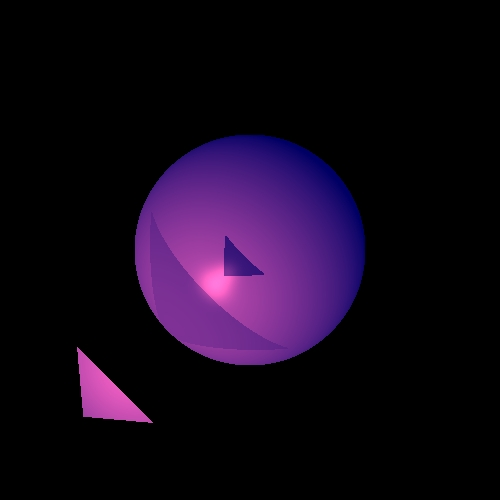
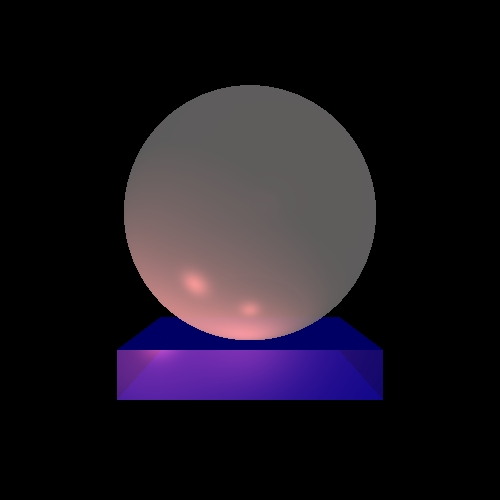
depth

Changed region(s): [[0.15, 0.15, 0.78, 0.87]]

diff --git a/tar1_primitives/src/unittests/RenderTest.java b/tar1_primitives/src/unittests/RenderTest.java
@@ -356,10 +356,10 @@ public class RenderTest extends TestCase {
 		scene.setCamera(new Camera(new Point3D(0, 0, 0), new Vector(0, 1, 0), new Vector(0, 0, -1)), 200);
 		Geometries geometries = new Geometries();
 		scene.addGeometries(geometries);
-		Sphere sphere = new Sphere(new Point3D(0, 0, -1000), 500, new Color(0, 0, 100), new Material(1.5,0.5,40));
+		Sphere sphere = new Sphere(new Point3D(0, 0, -1000), 500, new Color(0, 0, 100), new Material(1.5, 0.5, 40));
 		scene.addGeometries(sphere);
 		Triangle triangle = new Triangle(new Point3D(-125, -225, -260), new Point3D(-225, -125, -260),
-				new Point3D(-225, -225, -270), new Color(0, 0, 100), new Material(1.5,0.5,40));
+				new Point3D(-225, -225, -270), new Color(0, 0, 100), new Material(1.5, 0.5, 40));
 		scene.addGeometries(triangle);
 		scene.setLights(new SpotLight(new Point3D(-200, -200, -150), 1, 0.00001, 0.000005, new Color(255, 100, 100),
 				new Vector(2, 2, -3)));
@@ -368,7 +368,7 @@ public class RenderTest extends TestCase {
 		render.renderImage();
 		render.getImageWriter().writeToImage();
 	}
-	
+
 	public void testRenderImage15() {
 		Scene scene = new Scene("abc");
 		scene.setBackground(new Color());
@@ -376,16 +376,25 @@ public class RenderTest extends TestCase {
 		scene.setCamera(new Camera(new Point3D(0, 0, 0), new Vector(0, 1, 0), new Vector(0, 0, -1)), 200);
 		Geometries geometries = new Geometries();
 		scene.addGeometries(geometries);
-		Sphere sphere = new Sphere(new Point3D(0, 0, -1000), 500, new Color(0, 0, 100), new Material());
+		Sphere sphere = new Sphere(new Point3D(0,50, -375), 200, new Color(70,70,70), new Material(0.5,0.5,40,0,0.3));
 		scene.addGeometries(sphere);
-		Triangle triangle = new Triangle(new Point3D(-125, -225, -260), new Point3D(-225, -125, -260),
-				new Point3D(-225, -225, -270), new Color(0, 0, 100), new Material());
-		scene.addGeometries(triangle);
+		Triangle triangle1 = new Triangle(new Point3D(-200, -225, -300), new Point3D(200, -225, -300),
+				new Point3D(-200, -225, -450), new Color(0, 0, 100), new Material(0.5,0.5,40,0,0.3));
+		Triangle triangle2 = new Triangle(new Point3D(200, -225, -450), new Point3D(200, -225, -300),
+				new Point3D(-200, -225, -450), new Color(0, 0, 100), new Material(0.5,0.5,40,0,0.3));
+		Triangle triangle3 = new Triangle(new Point3D(-200, -150, -300), new Point3D(200, -150, -300),
+				new Point3D(-200, -150, -450), new Color(0, 0, 100), new Material(0.5,0.5,40,0,0.3));
+		Triangle triangle4 = new Triangle(new Point3D(200, -150, -450), new Point3D(200, -150, -300),
+				new Point3D(-200, -150, -450), new Color(0, 0, 100), new Material(0.5,0.5,40,0,0.3));
+		
+		Triangle triangle5 = new Triangle(new Point3D(-200, -225, -300), new Point3D(200, -225, -300),
+				new Point3D(-200, -150, -300), new Color(0, 0, 100), new Material(0.5,0.5,40,0,0.3));
+		Triangle triangle6 = new Triangle(new Point3D(-200, -150, -300), new Point3D(200, -150, -300),
+				new Point3D(200, -225, -300), new Color(0, 0, 100), new Material(0.5,0.5,40,0,0.3));
+		scene.addGeometries(triangle1, triangle2, triangle3, triangle4, triangle5, triangle6);
 		scene.setLights(new SpotLight(new Point3D(-200, -200, -150), 1, 0.00001, 0.000005, new Color(255, 100, 100),
 				new Vector(2, 2, -3)));
-		scene.setLights(new DirectionalLight(new Color(255, 100, 100),
-				new Vector(2, 2, -3)));
-		System.out.println(scene);
+		scene.setLights(new SpotLight(new Point3D(0,-150,-200), 1, 0.0001, 0.00005, new Color(255, 100, 100), new Vector(0, 2, -3)));
 		ImageWriter imageWriter = new ImageWriter("15", 500, 500, 500, 500);
 		Render render = new Render(scene, imageWriter);
 		render.renderImage();

diff --git a/tar1_primitives/src/renderer/DepthOfField.java b/tar1_primitives/src/renderer/DepthOfField.java
@@ -1,0 +1,110 @@
+package renderer;
+
+import static primitives.Util.alignZero;
+
+import java.util.ArrayList;
+import java.util.List;
+import java.util.Random;
+
+import elements.Camera;
+import geometries.Plane;
+import primitives.Color;
+import primitives.Point3D;
+import primitives.Ray;
+import primitives.Vector;
+import scene.Scene;
+
+public class DepthOfField {
+	private double _distance;
+	private Render _render;
+	private Scene _scene;
+	private Camera _camera;
+	private Vector _vTo;
+	private Point3D _p0;
+	private Plane _focusPlane;
+	private ImageWriter _imageWriter;
+	private Vector _vUp;
+	private Vector _vRight;
+
+	public DepthOfField(double dis, Render rndr) {
+		_distance = dis;
+		_render = rndr;
+		_scene = _render.getScene();
+		_imageWriter = _render.getImageWriter();
+		_camera = _scene.getCamera();
+		_vTo = _camera.getVTo();
+		_vUp = _camera.getVUp();
+		_vRight = _camera.getVRight();
+		_p0 = _camera.getP0();
+		_focusPlane = new Plane(_p0.addVec(_vTo.scale(_distance)), _vTo);
+	}
+
+	public void addFocus() {
+		int nX = _imageWriter.getNx(), nY = _imageWriter.getNy();
+		for (int i = 0; i < nX; ++i) {
+			for (int j = 0; j < nY; ++j) {
+				List<Point3D> points = getPointsInPixel(i, j);
+				Point3D focusPoint = _focusPlane.findIntersections(new Ray(_p0, points.get(0).subtract(_p0)))
+						.get(0).point;
+				_imageWriter.writePixel(i, j, calcColor(points, focusPoint));
+			}
+		}
+	}
+
+	private java.awt.Color calcColor(List<Point3D> points, Point3D focusPoint) {
+		int r = 0, g = 0, b = 0;
+		int len = points.size();
+		java.awt.Color col = new java.awt.Color(0, 0, 0);
+		for (Point3D pnt : points) {
+			col = _render.getPointColor(new Ray(pnt, new Vector(pnt.subtract(focusPoint))));
+			r += col.getRed();
+			g += col.getGreen();
+			b += col.getBlue();
+		}
+		return new java.awt.Color(r / len, g / len, b / len);
+	}
+
+	/**
+	 * get list of randomize points in pixel
+	 * 
+	 * @param i
+	 * @param j
+	 * @return
+	 */
+	public List<Point3D> getPointsInPixel(int i, int j) {
+		int nX = _imageWriter.getNx(), nY = _imageWriter.getNy();
+		double screenDistance = _scene.getScreenDistance(), screenHeight = _imageWriter.getHeight(),
+				screenWidth = _imageWriter.getWidth();
+		double ry = alignZero(screenHeight / nY) / 2;
+		double rx = alignZero(screenWidth / nX) / 2;
+		List<Point3D> points = new ArrayList<Point3D>();
+		Point3D pij = _camera.getPixelCenter(nX, nY, i, j, screenDistance, screenWidth, screenHeight);
+		points.add(pij);
+		double r1, r2;
+		Point3D pntToAdd;
+		for (int t = 0; t < 5; ++t) {
+			r1 = Math.random() * ry;
+			r2 = Math.random() * rx;
+			pntToAdd = r1 == 0 ? new Point3D(pij) : pij.addVec(_vUp.scale(r1));
+			pntToAdd = r2 == 0 ? pntToAdd : pij.addVec(_vRight.scale(r2));
+			points.add(pntToAdd);
+			r1 = Math.random() * ry;
+			r2 = Math.random() * rx;
+			pntToAdd = r1 == 0 ? new Point3D(pij) : pij.addVec(_vUp.scale(-r1));
+			pntToAdd = r2 == 0 ? pntToAdd : pij.addVec(_vRight.scale(-r2));
+			points.add(pntToAdd);
+			r1 = Math.random() * ry;
+			r2 = Math.random() * rx;
+			pntToAdd = r1 == 0 ? new Point3D(pij) : pij.addVec(_vUp.scale(r1));
+			pntToAdd = r2 == 0 ? pntToAdd : pij.addVec(_vRight.scale(-r2));
+			points.add(pntToAdd);
+			r1 = Math.random() * ry;
+			r2 = Math.random() * rx;
+			pntToAdd = r1 == 0 ? new Point3D(pij) : pij.addVec(_vUp.scale(-r1));
+			pntToAdd = r2 == 0 ? pntToAdd : pij.addVec(_vRight.scale(r2));
+			points.add(pntToAdd);
+		}
+		return points;
+	}
+
+}

diff --git a/tar1_primitives/src/renderer/DepthOfFieldTest.java b/tar1_primitives/src/renderer/DepthOfFieldTest.java
@@ -1,0 +1,50 @@
+package renderer;
+
+import elements.AmbientLight;
+import elements.Camera;
+import elements.SpotLight;
+import geometries.Geometries;
+import geometries.Sphere;
+import geometries.Triangle;
+import junit.framework.TestCase;
+import primitives.Color;
+import primitives.Material;
+import primitives.Point3D;
+import primitives.Vector;
+import scene.Scene;
+
+public class DepthOfFieldTest extends TestCase {
+	public void testDepthOfFieldTest() {
+		Scene scene = new Scene("abc");
+		scene.setBackground(new Color());
+		scene.setAmbientLight(new AmbientLight(Color.BLACK, 1.0));
+		scene.setCamera(new Camera(new Point3D(0, 0, 0), new Vector(0, 1, 0), new Vector(0, 0, -1)), 200);
+		Geometries geometries = new Geometries();
+		scene.addGeometries(geometries);
+		Sphere sphere = new Sphere(new Point3D(0,50, -575), 200, new Color(70,70,70), new Material(0.5,0.5,40,0,0.3));
+		scene.addGeometries(sphere);
+		Triangle triangle1 = new Triangle(new Point3D(-200, -225, -500), new Point3D(200, -225, -500),
+				new Point3D(-200, -225, -650), new Color(0, 0, 100), new Material(0.5,0.5,40,0,0.3));
+		Triangle triangle2 = new Triangle(new Point3D(200, -225, -650), new Point3D(200, -225, -500),
+				new Point3D(-200, -225, -650), new Color(0, 0, 100), new Material(0.5,0.5,40,0,0.3));
+		Triangle triangle3 = new Triangle(new Point3D(-200, -150, -500), new Point3D(200, -150, -500),
+				new Point3D(-200, -150, -650), new Color(0, 0, 100), new Material(0.5,0.5,40,0,0.3));
+		Triangle triangle4 = new Triangle(new Point3D(200, -150, -650), new Point3D(200, -150, -500),
+				new Point3D(-200, -150, -650), new Color(0, 0, 100), new Material(0.5,0.5,40,0,0.3));
+		
+		Triangle triangle5 = new Triangle(new Point3D(-200, -225, -500), new Point3D(200, -225, -500),
+				new Point3D(-200, -150, -500), new Color(0, 0, 100), new Material(0.5,0.5,40,0,0.3));
+		Triangle triangle6 = new Triangle(new Point3D(-200, -150, -500), new Point3D(200, -150, -500),
+				new Point3D(200, -225, -500), new Color(0, 0, 100), new Material(0.5,0.5,40,0,0.3));
+		scene.addGeometries(triangle1, triangle2, triangle3, triangle4, triangle5, triangle6);
+		scene.setLights(new SpotLight(new Point3D(-200, -200, -350), 1, 0.00001, 0.000005, new Color(255, 100, 100),
+				new Vector(2, 2, -3)));
+		scene.setLights(new SpotLight(new Point3D(0,-150,-400), 1, 0.0001, 0.00005, new Color(255, 100, 100), new Vector(0, 2, -3)));
+		ImageWriter imageWriter = new ImageWriter("depth", 500, 500, 500, 500);
+		Render render = new Render(scene, imageWriter);
+//		DepthOfField depth = new DepthOfField(250, render);
+//		depth.addFocus();
+		render.renderImage();
+		render.getImageWriter().writeToImage();
+	}
+}

diff --git a/tar1_primitives/src/renderer/Render.java b/tar1_primitives/src/renderer/Render.java
@@ -53,15 +53,24 @@ public class Render {
 	 * function colors each point in the image according to the intersections
 	 */
 	public void renderImage() {
-		for (int i = 0; i < _imageWriter.getNx(); ++i) {
-			for (int j = 0; j < _imageWriter.getNy(); ++j) {
-				Ray ray = _scene.getCamera().constructRayThroughPixel(_imageWriter.getNx(), _imageWriter.getNy(), i, j,
-						_scene.getScreenDistance(), _imageWriter.getWidth(), _imageWriter.getHeight());
-				GeoPoint closestPoint = findClosestIntersection(ray);
-				_imageWriter.writePixel(i, j, closestPoint == null ? _scene.getBackground().getColor()
-						: calcColor(closestPoint, ray).getColor());
+		int nX = _imageWriter.getNx(), nY = _imageWriter.getNy();
+		for (int i = 0; i < nX; ++i) {
+			for (int j = 0; j < nY; ++j) {
+				Ray ray = _scene.getCamera().constructRayThroughPixel(nX, nY, i, j, _scene.getScreenDistance(),
+						_imageWriter.getWidth(), _imageWriter.getHeight());
+				_imageWriter.writePixel(i, j, getPointColor(ray));
 			}
 		}
+	}
+
+	/**
+	 * gets color of point
+	 * @param ray
+	 * @return
+	 */
+	public java.awt.Color getPointColor(Ray ray) {
+		GeoPoint closestPoint = findClosestIntersection(ray);
+		return closestPoint == null ? _scene.getBackground().getColor() : calcColor(closestPoint, ray).getColor();
 	}
 
 	/**

diff --git a/tar1_primitives/src/elements/Camera.java b/tar1_primitives/src/elements/Camera.java
@@ -78,6 +78,13 @@ public class Camera {
 	 */
 	public Ray constructRayThroughPixel(int Nx, int Ny, int i, int j, double screenDistance, double screenWidth,
 			double screenHeight) {
+		Point3D pij = getPixelCenter(Nx, Ny, i, j, screenDistance, screenWidth, screenHeight);
+		Vector _Vij = pij.subtract(this._p0);// _Vij vector from camera to pixel on the screen
+		return new Ray(this._p0, _Vij);
+	}
+	
+	public Point3D getPixelCenter(int Nx, int Ny, int i, int j, double screenDistance, double screenWidth,
+			double screenHeight) {
 		Point3D pc = this._p0.addVec(_vTo.scale(screenDistance));// _Pc => center of the screen
 		double ry = alignZero(screenHeight / Ny);//
 		double rx = alignZero(screenWidth / Nx); // _Ry*_Rx the pixel area
@@ -92,8 +99,7 @@ public class Camera {
 		if (yj != 0)
 			pij = pij.addVec(this._vUp.scale(-yj));
 		// }
-		Vector _Vij = pij.subtract(this._p0);// _Vij vector from camera to pixel on the screen
-		return new Ray(this._p0, _Vij);
+		return pij;		
 	}
 
 	@Override
